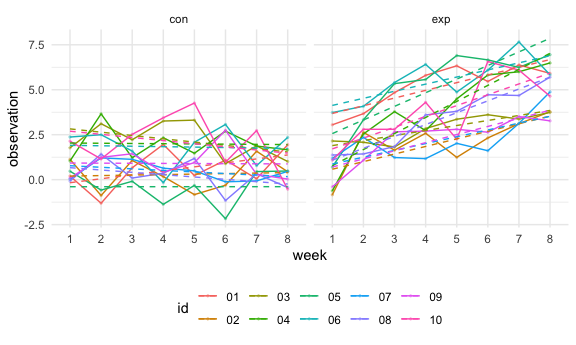
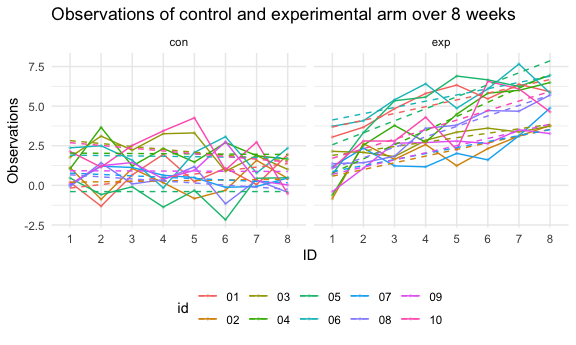
p2 -- add comments to the plot

diff --git a/p8105_hw5_lt2812.md b/p8105_hw5_lt2812.md
@@ -84,7 +84,9 @@ Then, tidy the dataframe.
       pivot_longer(week_1:week_8, names_to = "week", values_to = "observation") %>% 
       mutate(week = substr(week, 6, 6))
 
-Make a spaghetti plot of observations on each subject over time.
+Make a spaghetti plot of observations on each subject over time. Since
+the observations are difficult to track due to the large quantity, I add
+linear smooths lines to help looking for trends.
 
     tidy_df %>% 
       group_by(id, group) %>% 
@@ -92,8 +94,16 @@ Make a spaghetti plot of observations on each subject over time.
       geom_point(alpha = .3, size = 0.5) +
       geom_line() +
       geom_smooth(method = "lm", size = 0.5, se = FALSE, lty = 2) +
-      facet_grid(. ~ group)
+      labs(
+      title = "Observations of control and experimental arm over 8 weeks",
+      x = "ID",
+      y = "Observations") +
+      facet_grid(. ~ group) 
 
     ## `geom_smooth()` using formula 'y ~ x'
 
 <img src="p8105_hw5_lt2812_files/figure-gfm/unnamed-chunk-9-1.png" width="90%" />
+
+The observations of subjects fluctuate in both within the control and
+experimental group, however, the general trend of experimental group is
+increasing over time and control group has slightly decrease.
